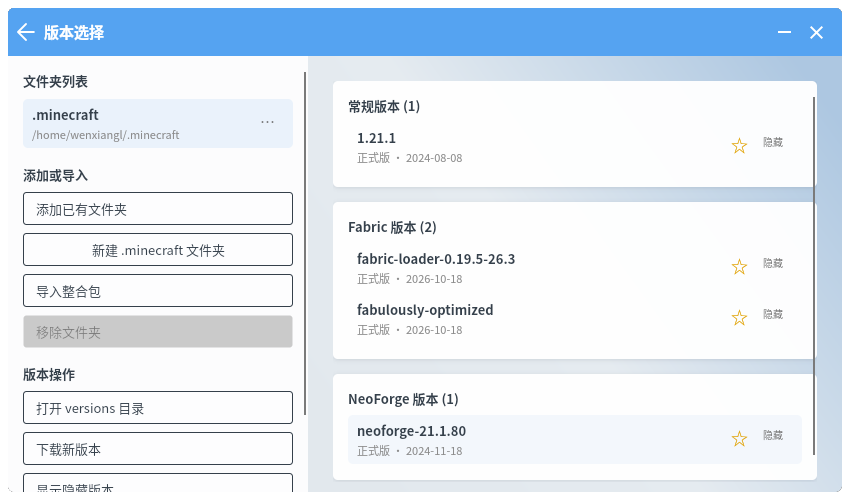
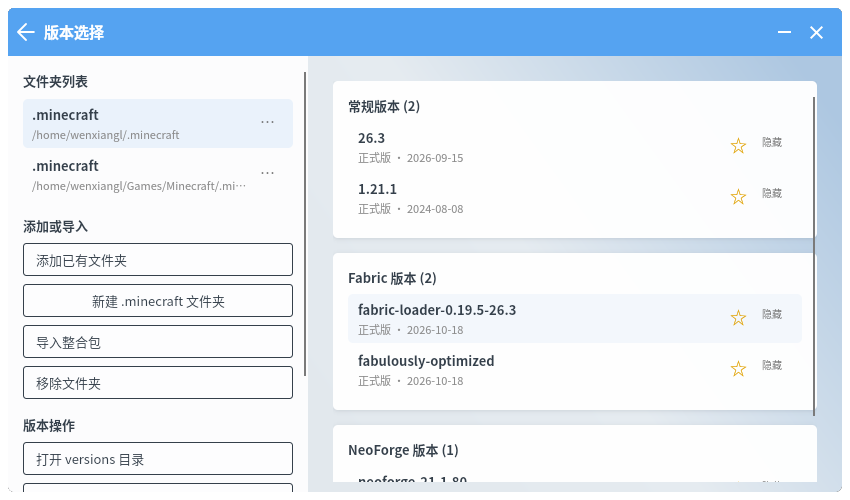
Feature: in-place local modpack import

diff --git a/src/WMCL.App/ViewModels/VersionSelectViewModel.cs b/src/WMCL.App/ViewModels/VersionSelectViewModel.cs
@@ -14,21 +14,18 @@ public partial class VersionSelectViewModel : ViewModelBase
     private readonly AppServices _services;
     private readonly Action _close;
     private readonly Action _download;
-    private readonly Action _openModpack;
     private bool _suppressFolderChange;
 
     public VersionSelectViewModel(
         LaunchViewModel launch,
         AppServices services,
         Action close,
-        Action download,
-        Action openModpack)
+        Action download)
     {
         _launch = launch;
         _services = services;
         _close = close;
         _download = download;
-        _openModpack = openModpack;
         SelectedVersion = launch.SelectedVersion is { IsInstalled: true } selected
             ? selected
             : Versions.FirstOrDefault();
@@ -52,6 +49,12 @@ public partial class VersionSelectViewModel : ViewModelBase
     public string CountText => $"已安装 {Versions.Count} 个版本";
     public string GameDirectory => _services.Settings.GameDirectory;
     public string VersionsDirectory => Path.Combine(GameDirectory, "versions");
+
+    [ObservableProperty]
+    private bool _isImporting;
+
+    [ObservableProperty]
+    private string _importStatus = "";
 
     [ObservableProperty]
     private VersionItem? _selectedVersion;
@@ -220,6 +223,34 @@ public partial class VersionSelectViewModel : ViewModelBase
         DateTimeOffset.TryParse(releaseTime, out var time) &&
         time.Month == 4 && time.Day == 1;
 
+    public event EventHandler? InstanceInstalled;
+
+    public async Task ImportLocalAsync(string path)
+    {
+        if (IsImporting || string.IsNullOrWhiteSpace(path)) return;
+        IsImporting = true;
+        ImportStatus = "正在导入本地整合包…";
+        try
+        {
+            var progress = new Progress<WMCL.Core.Jobs.JobProgress>(update =>
+                ImportStatus = update.Percent is null
+                    ? update.Stage
+                    : $"{update.Stage} {update.Percent * 100:0}%");
+            var id = await _services.LocalModpack.InstallFromFileAsync(
+                path, null, progress);
+            ImportStatus = "已导入实例：" + id;
+            InstanceInstalled?.Invoke(this, EventArgs.Empty);
+        }
+        catch (Exception ex)
+        {
+            ImportStatus = "导入失败：" + ex.Message;
+        }
+        finally
+        {
+            IsImporting = false;
+        }
+    }
+
     public void ToggleHidden(VersionItem item)
     {
         item.IsHidden = !item.IsHidden;
@@ -276,12 +307,5 @@ public partial class VersionSelectViewModel : ViewModelBase
     {
         _close();
         _download();
-    }
-
-    [RelayCommand]
-    private void ImportModpack()
-    {
-        _close();
-        _openModpack();
     }
 }

diff --git a/src/WMCL.App/Views/VersionSelectView.axaml.cs b/src/WMCL.App/Views/VersionSelectView.axaml.cs
@@ -57,6 +57,27 @@ public partial class VersionSelectView : UserControl
             viewModel.ToggleFavorite(item);
     }
 
+    private async void OnImportLocalModpackClick(object? sender, RoutedEventArgs e)
+    {
+        if (DataContext is not VersionSelectViewModel viewModel) return;
+        var storage = TopLevel.GetTopLevel(this)?.StorageProvider;
+        if (storage is null) return;
+        var files = await storage.OpenFilePickerAsync(new Avalonia.Platform.Storage.FilePickerOpenOptions
+        {
+            Title = "选择本地整合包",
+            AllowMultiple = false,
+            FileTypeFilter =
+            [
+                new Avalonia.Platform.Storage.FilePickerFileType("整合包")
+                {
+                    Patterns = ["*.zip", "*.mrpack"]
+                }
+            ]
+        });
+        if (files.Count > 0)
+            await viewModel.ImportLocalAsync(files[0].Path.LocalPath);
+    }
+
     private async void OnCreateGameFolderClick(object? sender, RoutedEventArgs e)
     {
         if (DataContext is not VersionSelectViewModel viewModel) return;

diff --git a/src/WMCL.App/ViewModels/MainWindowViewModel.cs b/src/WMCL.App/ViewModels/MainWindowViewModel.cs
@@ -116,9 +116,15 @@ public partial class MainWindowViewModel : ViewModelBase, IDisposable
             Launch,
             Services,
             CloseVersionSelect,
-            () => NavigateTo("download"),
-            () => NavigateTo("modpack"));
+            () => NavigateTo("download"));
         Services.GameDirectoryChanged += (_, _) => _ = ReloadGameFolderAsync();
+        VersionSelect.InstanceInstalled += (_, _) =>
+        {
+            _ = Launch.LoadAsync();
+            _ = Instance.LoadAsync();
+            _ = Content.LoadAsync();
+            _ = Mods.LoadAsync();
+        };
         Launch.VersionSettingsRequested += async (_, id) =>
             await OpenInstanceSettingsAsync(id);
         Install.InstallCompleted += (_, _) =>
